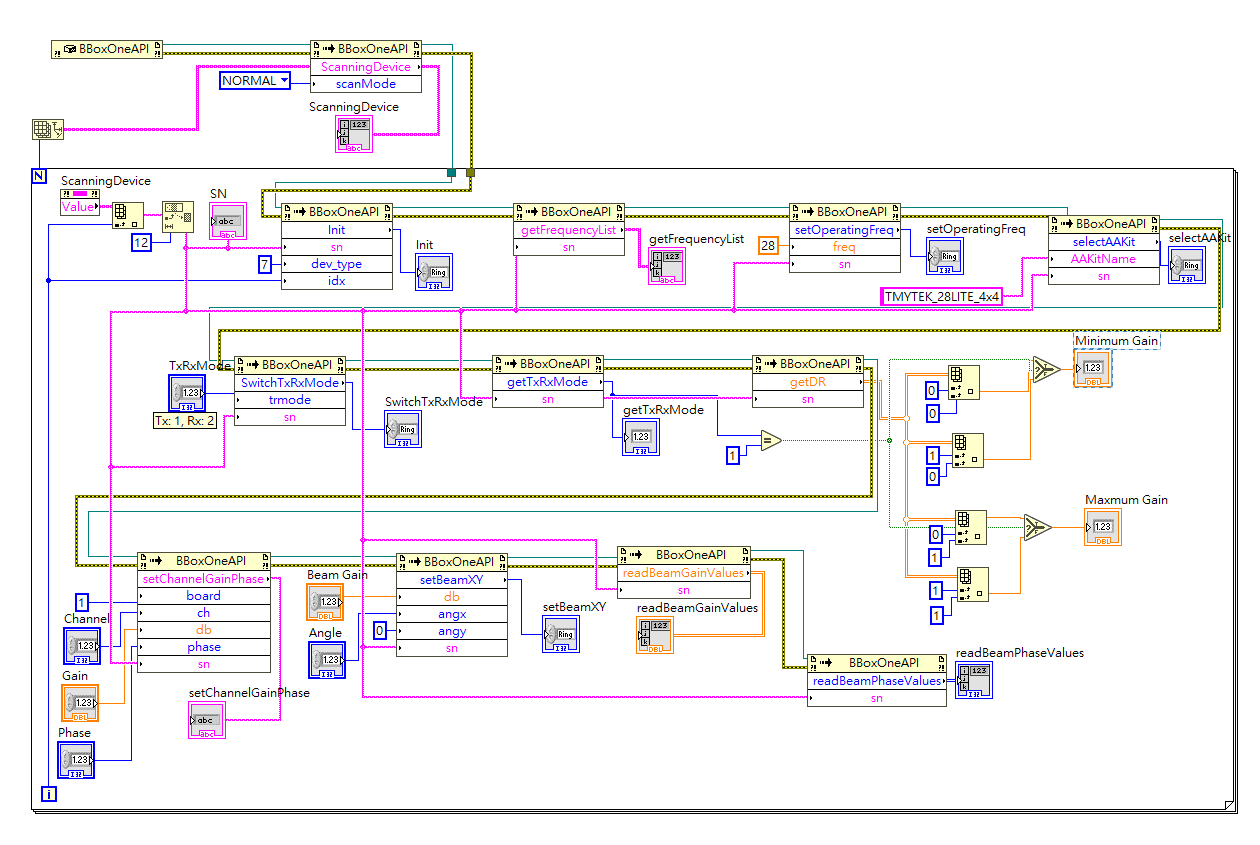
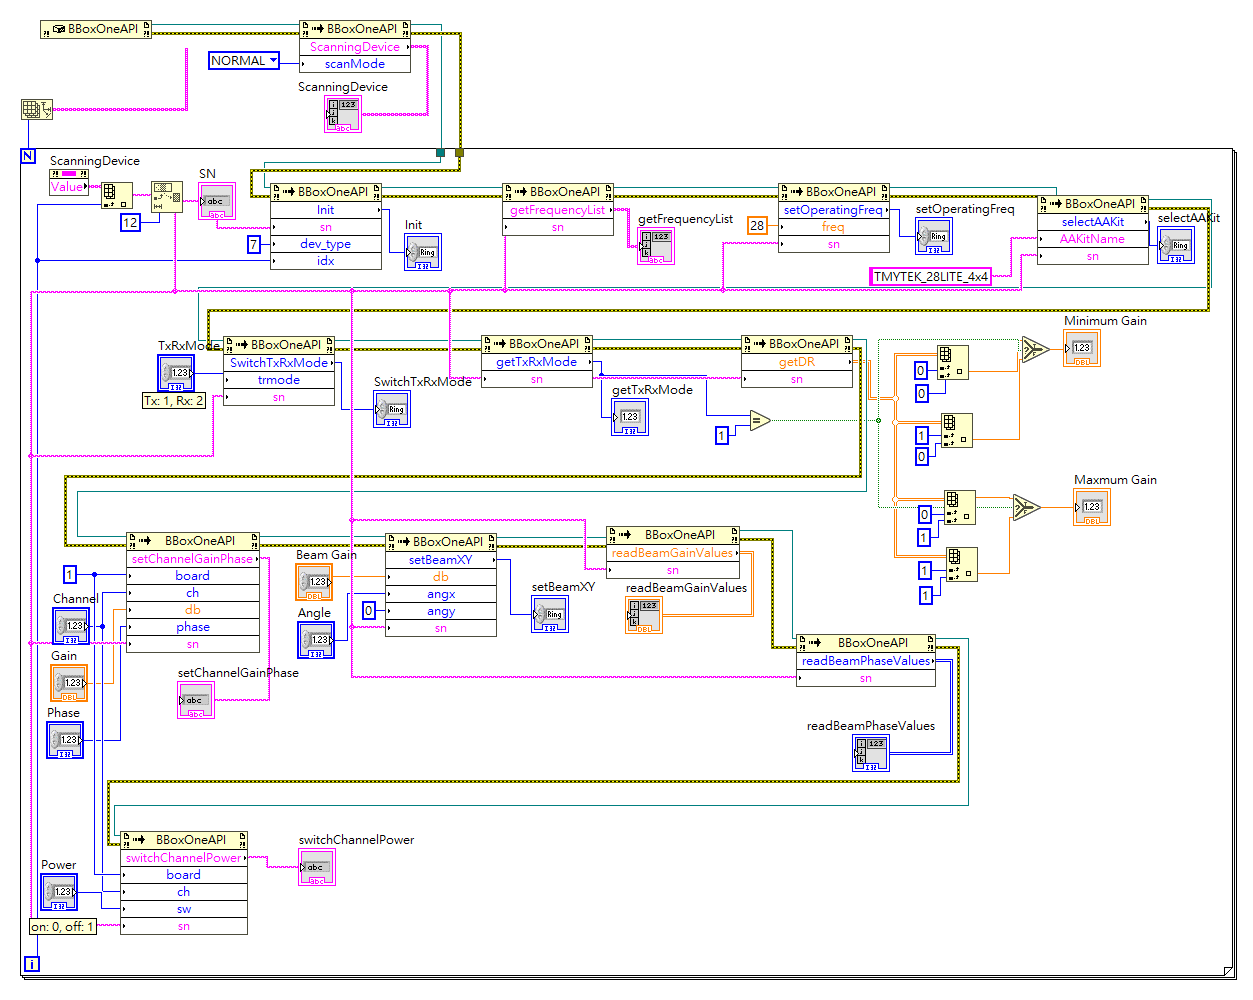
revise flow - add switchChannelPower function

Changed region(s): [[0.0, 0.0, 0.996, 0.9846]]

diff --git a/example/BBoxLite/second_generation/LabView2017/BBoxLite28A/README.md b/example/BBoxLite/second_generation/LabView2017/BBoxLite28A/README.md
@@ -24,7 +24,7 @@ Please import BBoxLiteAPI.dll from Visual Studio and use the following code segm
 
 
 ## Control example
-<img src="labView_Example.PNG"
+<img src="labView_Example.png"
      alt="labView_Example"
      style="float: left; margin-right: 10px;" />
 
@@ -62,7 +62,7 @@ BBox is TDD based device.
 | Type | Name | Value                                        |
 | ------------ | ------------ | ------------------------------------------------ |
 | string       | sn           | serial number of bbox one |
-| int          | dev_type     | fixed at 7   |
+| int          | dev_type     | bbox device type, ex. BBoxLite28A is 7   |
 | int          | idx          | bbox instance index   |
 
 ----------
@@ -115,20 +115,17 @@ BBox is TDD based device.
 ## Tx dynamic range
 | Gain  | 0.0 to 15.0 dB |
 | -------- | ---- |
-
 Resolution is 0.5 dB
 
 ## Rx dynamic range
 | Gain  | -3.0 to 12.0 dB |
 | -------- | ---- |
-
 Resolution is 0.5 dB
 
 
 ## Tx/Rx phase range
 | phase | 0-355  |
 | -------- | ---- |
-
 Resolution is 5 degrees
 
 
